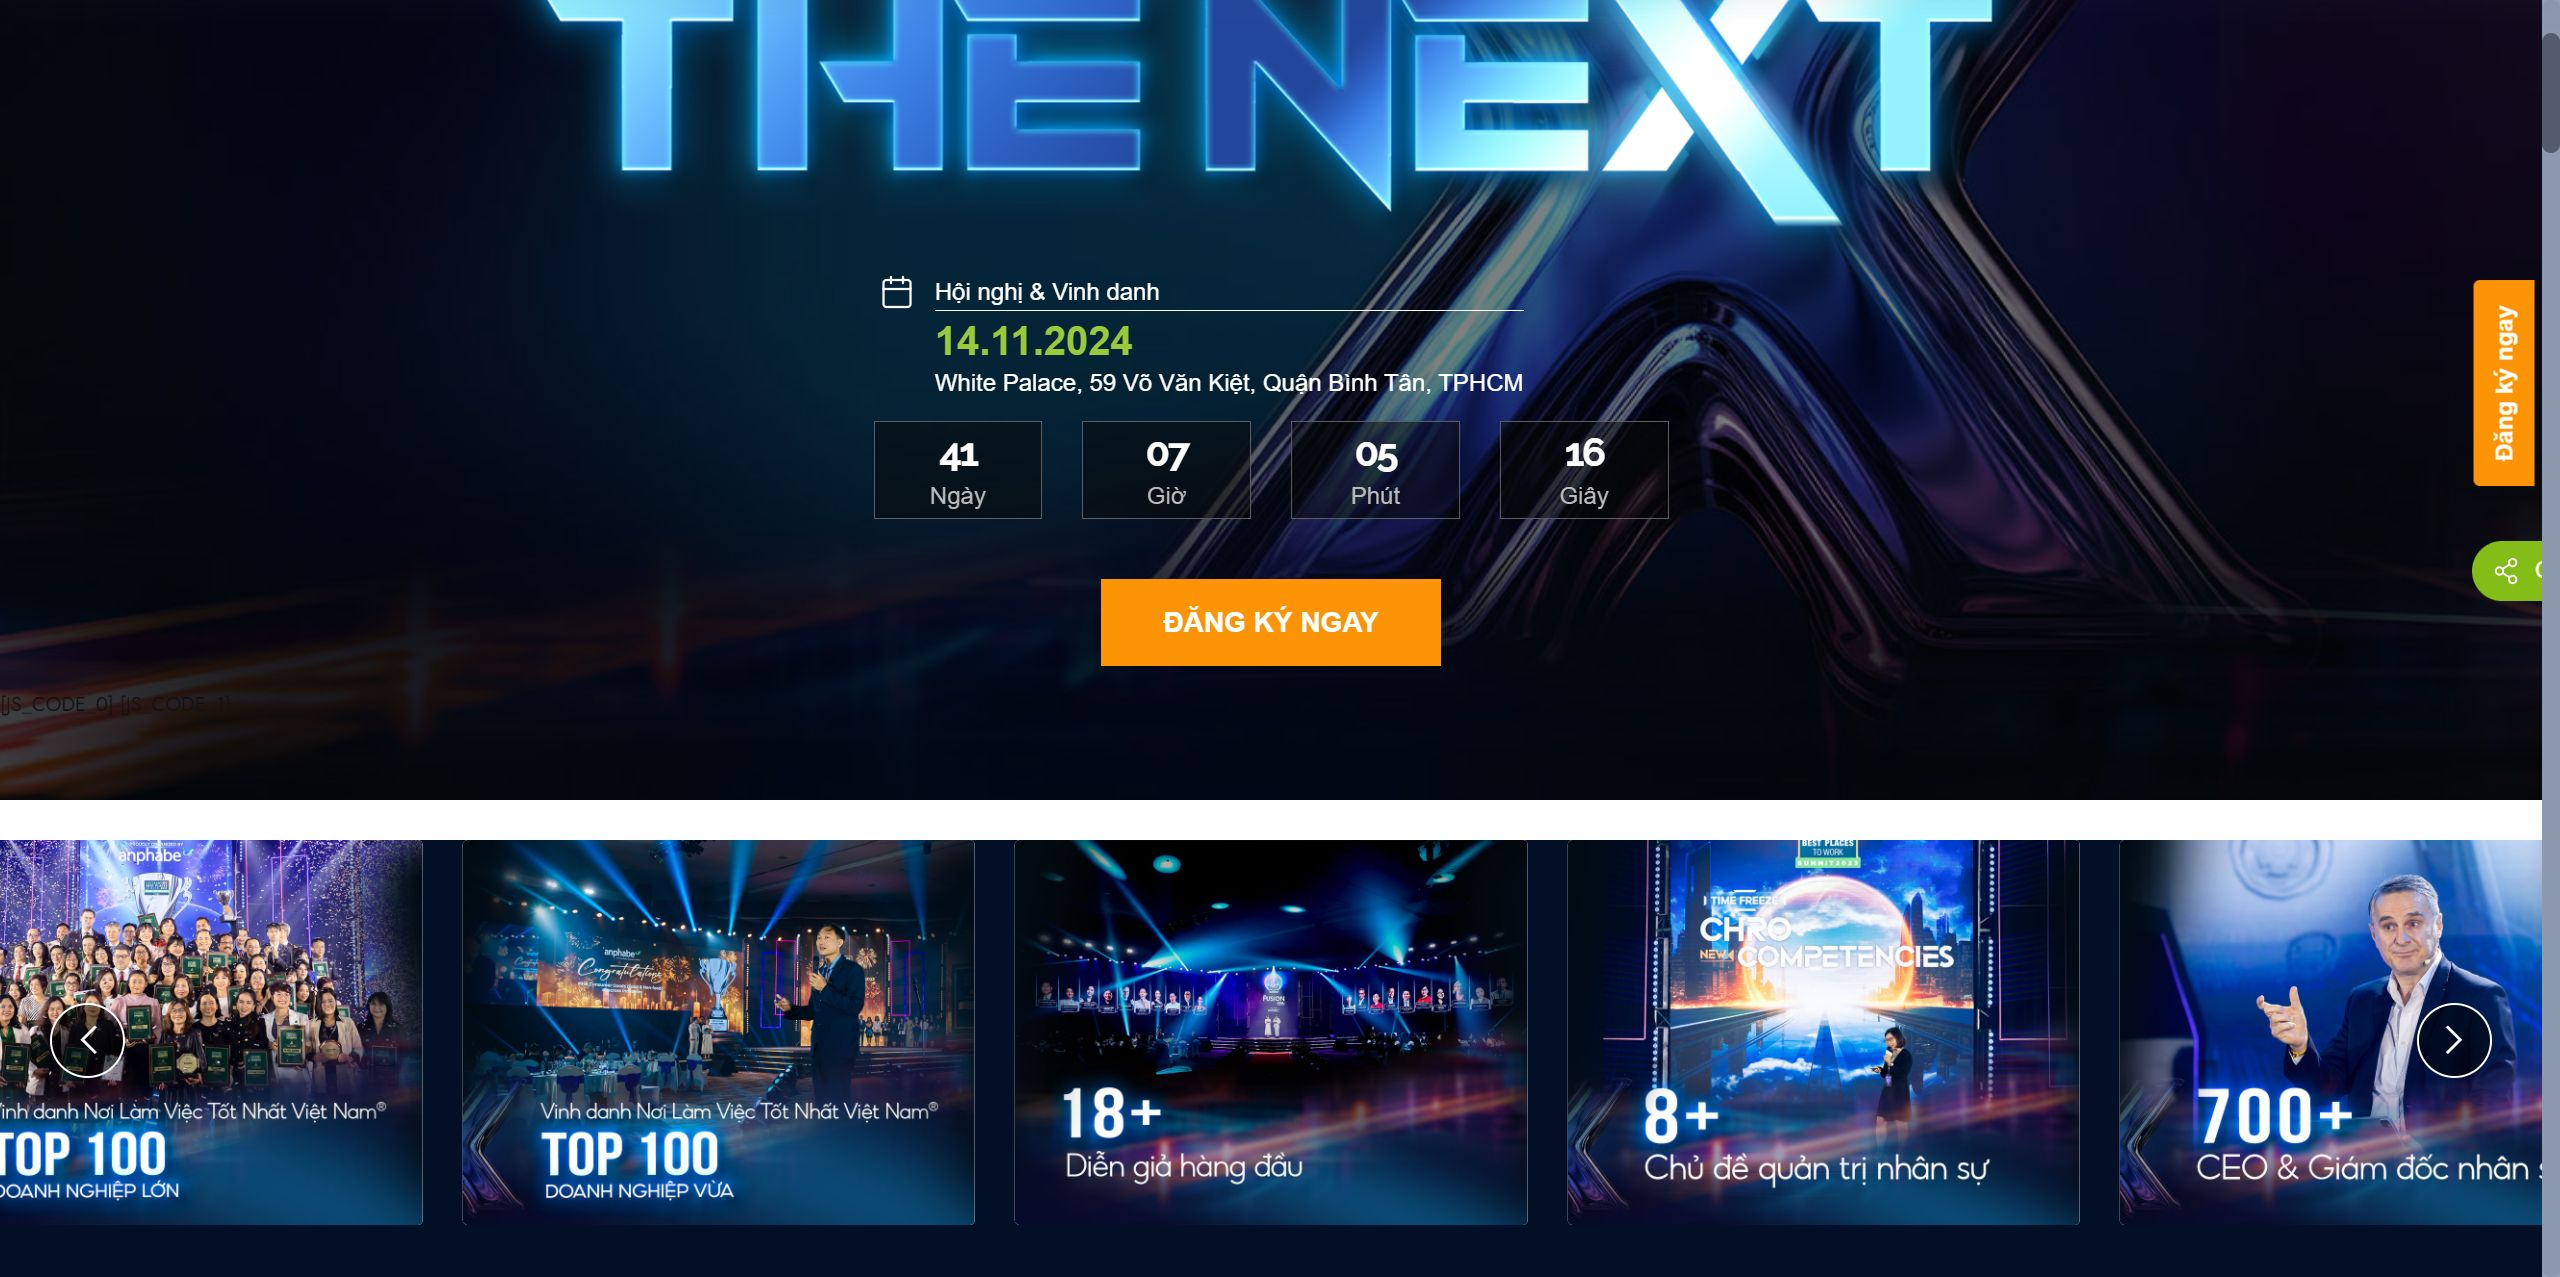
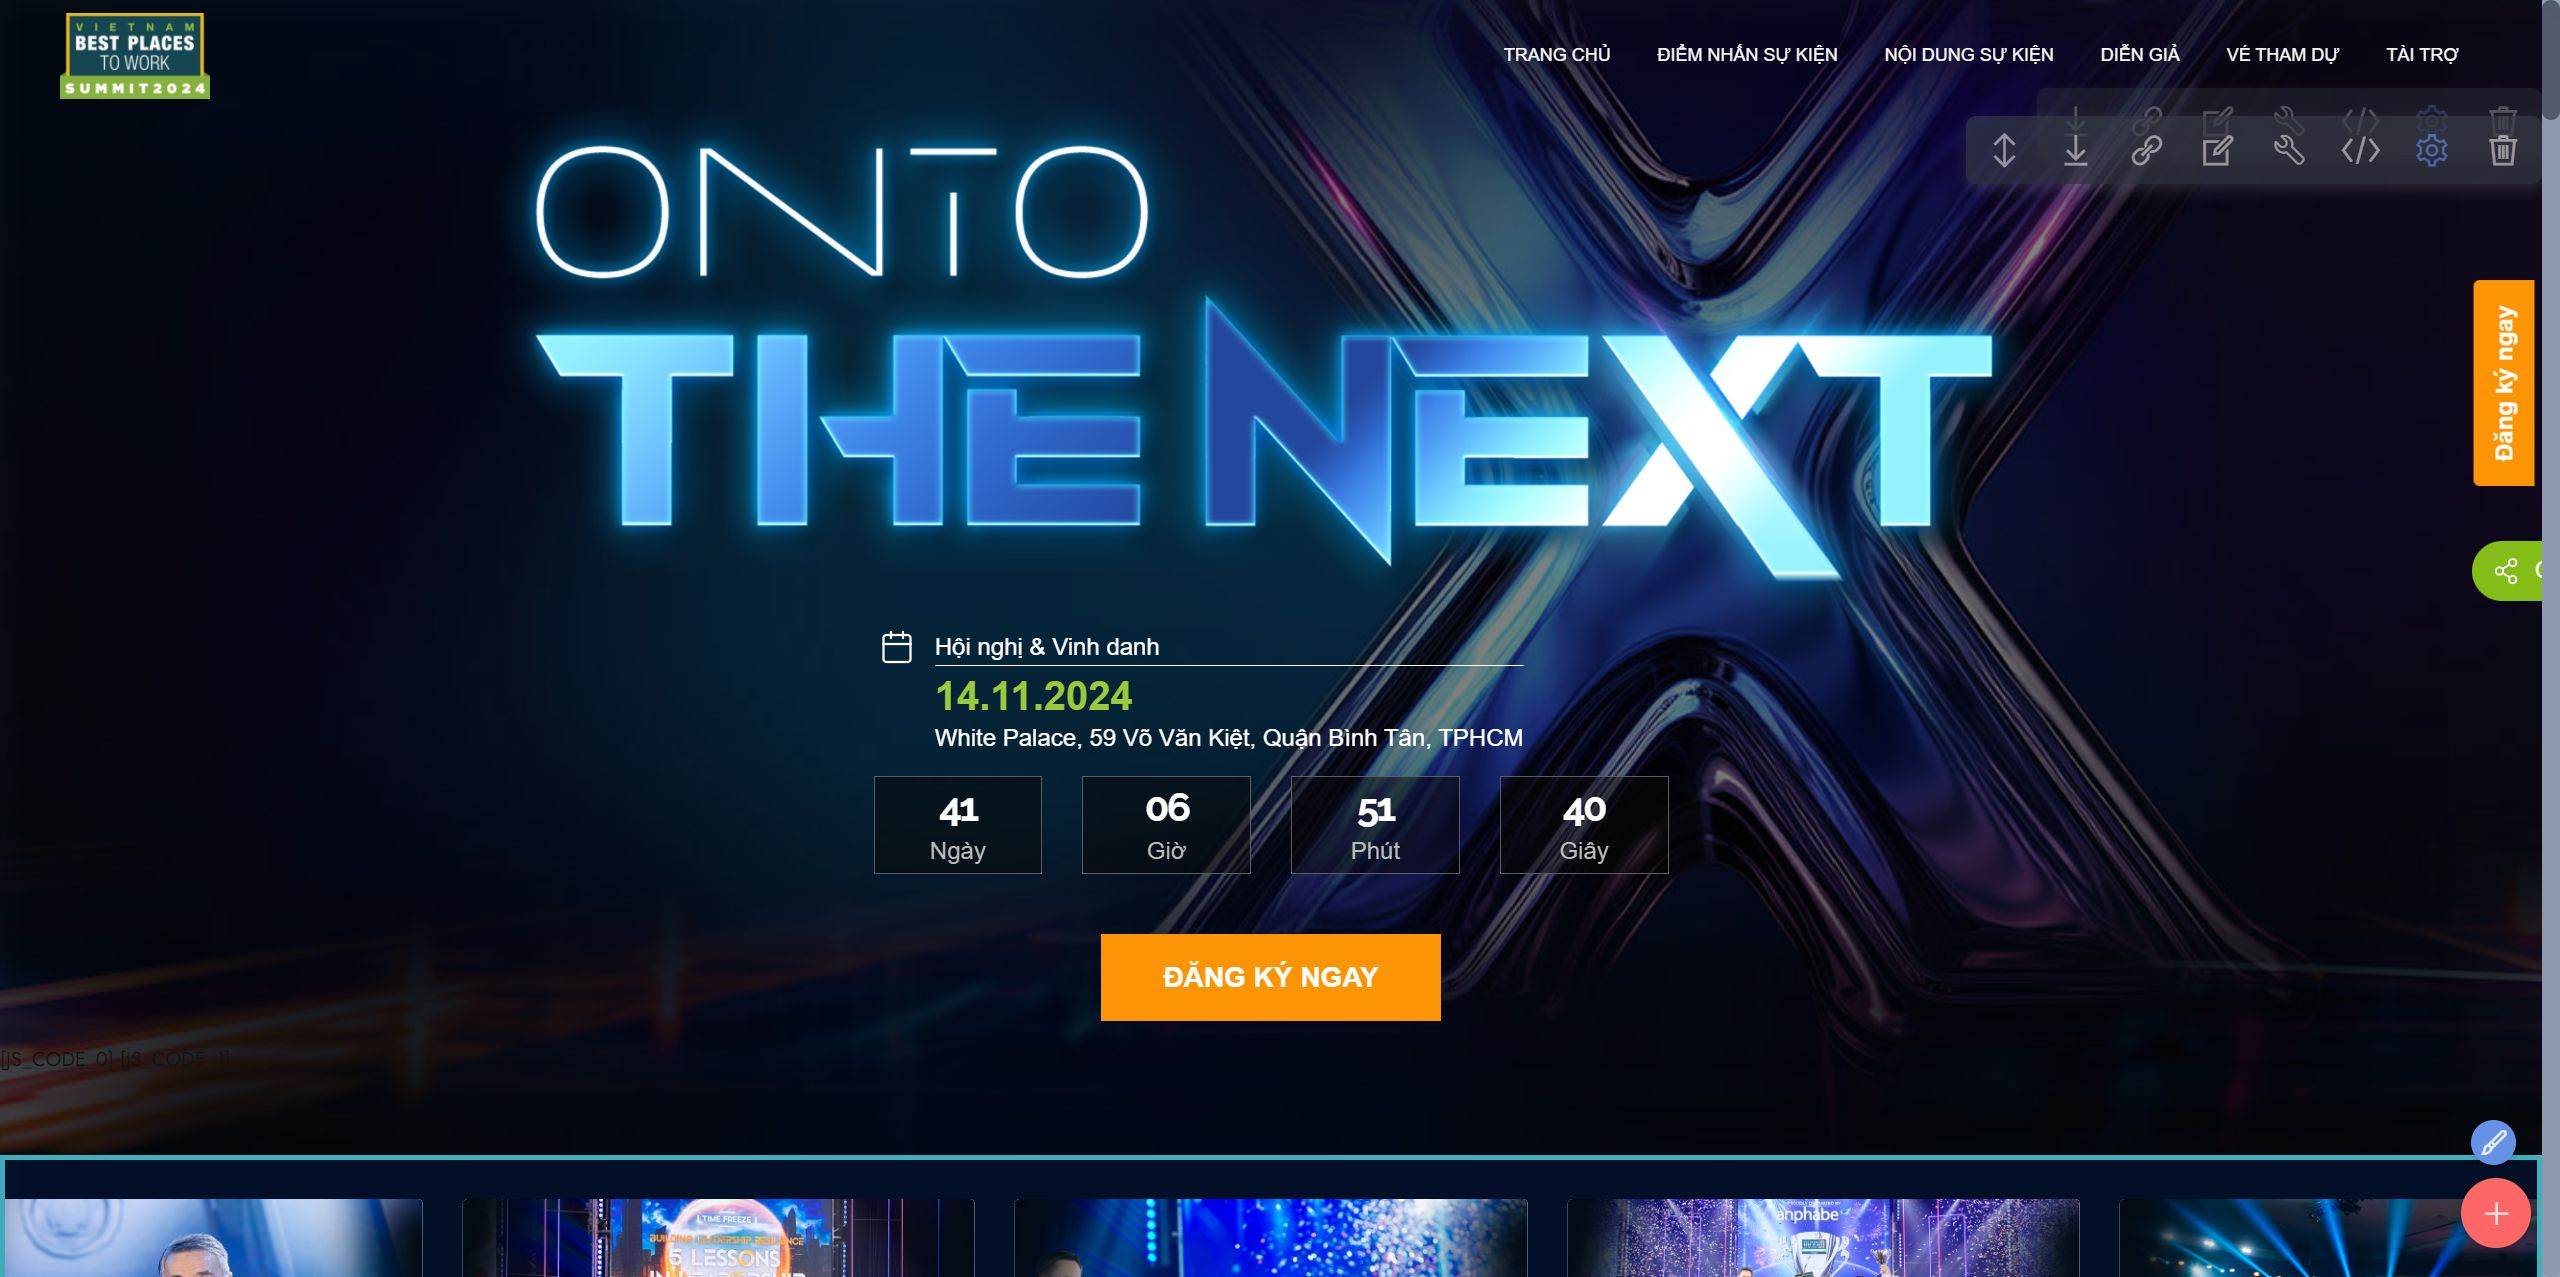
update
nav

diff --git a/vietnambestplacestowork/2024/index.html b/vietnambestplacestowork/2024/index.html
@@ -22,7 +22,7 @@
   <noscript><link rel="stylesheet" href="https://fonts.googleapis.com/css?family=Raleway:100,200,300,400,500,600,700,800,900,100i,200i,300i,400i,500i,600i,700i,800i,900i&display=swap"></noscript>
   <link rel="preload" href="https://fonts.googleapis.com/css?family=Questrial:400&display=swap" as="style" onload="this.onload=null;this.rel='stylesheet'">
   <noscript><link rel="stylesheet" href="https://fonts.googleapis.com/css?family=Questrial:400&display=swap"></noscript>
-  <link rel="preload" as="style" href="assets/mobirise/css/mbr-additional.css?v=dZzjAj"><link rel="stylesheet" href="assets/mobirise/css/mbr-additional.css?v=dZzjAj" type="text/css">
+  <link rel="preload" as="style" href="assets/mobirise/css/mbr-additional.css?v=pUJM1o"><link rel="stylesheet" href="assets/mobirise/css/mbr-additional.css?v=pUJM1o" type="text/css">
 
   
   <script>(function(w,d,s,l,i){w[l]=w[l]||[];w[l].push({'gtm.start':
@@ -97,7 +97,7 @@ height="0" width="0" style="display:none;visibility:hidden"></iframe></noscript>
                 </div>
             </button>
             <div class="collapse navbar-collapse" id="navbarSupportedContent">
-                <ul class="navbar-nav nav-dropdown" data-app-modern-menu="true"><li class="nav-item"><a class="nav-link link text-white text-primary display-4" href="index.html">TRANG CHỦ</a></li>
+                <ul class="navbar-nav nav-dropdown" data-app-modern-menu="true"><li class="nav-item"><a class="nav-link link text-white text-primary display-4" href="index.html">TRANG CHỦ</a></li><li class="nav-item"><a class="nav-link link text-white text-primary display-4" href="index.html#highlight">ĐIỂM NHẤN SỰ KIỆN</a></li>
                     
                     <li class="nav-item"><a class="nav-link link text-white text-primary display-4" href="index.html#noidung">NỘI DUNG SỰ KIỆN</a></li><li class="nav-item"><a class="nav-link link text-white text-primary display-4" href="index.html#speaker">DIỄN GIẢ</a></li><li class="nav-item"><a class="nav-link link text-white text-primary display-4" href="index.html#ve">VÉ THAM DỰ</a></li><li class="nav-item"><a class="nav-link link text-white display-4" href="index.html#taitro">TÀI TRỢ</a></li></ul>
                 <!--<div mbr-if="showButtons" mbr-buttons mbr-theme-style="display-4" class="navbar-buttons mbr-section-btn"><a href="https://event-register.anphabe.com/register.vi.html" class="btn btn-primary" data-app-placeholder="Type Text">ĐĂNG KÝ NGAY<span class="ti-alarm-clock mbr-iconfont mbr-iconfont-btn"></span></a></div>-->
@@ -250,7 +250,7 @@ height="0" width="0" style="display:none;visibility:hidden"></iframe></noscript>
 </script>
 </section>
 
-<section data-bs-version="5.1" class="slider6 mbr-embla cid-uq0NaHiqu6" id="slider6-7d">
+<section data-bs-version="5.1" class="slider6 mbr-embla cid-uq0NaHiqu6" id="highlight">
     
     
     <div class="position-relative">
@@ -673,8 +673,8 @@ height="0" width="0" style="display:none;visibility:hidden"></iframe></noscript>
     <div class="container">        
         <div class="row mbr-gallery">
             <div class="col-12 col-md-3 col-lg-4 item gallery-image active">
-                <div class="item-wrapper" data-toggle="modal" data-bs-toggle="modal" data-target="#uq2tuHsf4h-modal" data-bs-target="#uq2tuHsf4h-modal">
-                    <img class="w-100 image-speaker" src="assets/images/tn-s-1.png" alt="Bà Thanh Nguyễn" data-slide-to="0" data-bs-slide-to="0" data-target="#lb-uq2tuHsf4h" data-bs-target="#lb-uq2tuHsf4h">
+                <div class="item-wrapper" data-toggle="modal" data-bs-toggle="modal" data-target="#uq2wbCHglG-modal" data-bs-target="#uq2wbCHglG-modal">
+                    <img class="w-100 image-speaker" src="assets/images/tn-s-1.png" alt="Bà Thanh Nguyễn" data-slide-to="0" data-bs-slide-to="0" data-target="#lb-uq2wbCHglG" data-bs-target="#lb-uq2wbCHglG">
                     <div class="icon-wrapper">
                         <span class="mobi-mbri mobi-mbri-search mbr-iconfont mbr-iconfont-btn"></span>
                     </div>
@@ -690,8 +690,8 @@ height="0" width="0" style="display:none;visibility:hidden"></iframe></noscript>
             </div>
 
             <div class="col-12 col-md-3 col-lg-4 item gallery-image">
-                <div class="item-wrapper" data-toggle="modal" data-bs-toggle="modal" data-target="#uq2tuHsf4h-modal" data-bs-target="#uq2tuHsf4h-modal">
-                    <img class="w-100 image-speaker" src="assets/images/van-s-1.png" alt="Bà Lưu Bảo Vân " data-slide-to="1" data-bs-slide-to="1" data-target="#lb-uq2tuHsf4h" data-bs-target="#lb-uq2tuHsf4h">
+                <div class="item-wrapper" data-toggle="modal" data-bs-toggle="modal" data-target="#uq2wbCHglG-modal" data-bs-target="#uq2wbCHglG-modal">
+                    <img class="w-100 image-speaker" src="assets/images/van-s-1.png" alt="Bà Lưu Bảo Vân " data-slide-to="1" data-bs-slide-to="1" data-target="#lb-uq2wbCHglG" data-bs-target="#lb-uq2wbCHglG">
                     <div class="icon-wrapper">
                         <span class="mobi-mbri mobi-mbri-search mbr-iconfont mbr-iconfont-btn"></span>
                     </div>
@@ -707,8 +707,8 @@ height="0" width="0" style="display:none;visibility:hidden"></iframe></noscript>
             </div>
 
             <div class="col-12 col-md-3 col-lg-4 item gallery-image">
-                <div class="item-wrapper" data-toggle="modal" data-bs-toggle="modal" data-target="#uq2tuHsf4h-modal" data-bs-target="#uq2tuHsf4h-modal">
-                    <img class="w-100 image-speaker" src="assets/images/willross-s-1.png" alt="Ông Will Ross" data-slide-to="2" data-bs-slide-to="2" data-target="#lb-uq2tuHsf4h" data-bs-target="#lb-uq2tuHsf4h">
+                <div class="item-wrapper" data-toggle="modal" data-bs-toggle="modal" data-target="#uq2wbCHglG-modal" data-bs-target="#uq2wbCHglG-modal">
+                    <img class="w-100 image-speaker" src="assets/images/willross-s-1.png" alt="Ông Will Ross" data-slide-to="2" data-bs-slide-to="2" data-target="#lb-uq2wbCHglG" data-bs-target="#lb-uq2wbCHglG">
                     <div class="icon-wrapper">
                         <span class="mobi-mbri mobi-mbri-search mbr-iconfont mbr-iconfont-btn"></span>
                     </div>
@@ -722,11 +722,11 @@ height="0" width="0" style="display:none;visibility:hidden"></iframe></noscript>
             
         </div>
 
-        <div class="modal mbr-slider" tabindex="-1" role="dialog" aria-hidden="true" id="uq2tuHsf4h-modal">
+        <div class="modal mbr-slider" tabindex="-1" role="dialog" aria-hidden="true" id="uq2wbCHglG-modal">
             <div class="modal-dialog" role="document">
                 <div class="modal-content">
                     <div class="modal-body">
-                        <div class="carousel slide" id="lb-uq2tuHsf4h" data-interval="5000" data-bs-interval="5000">
+                        <div class="carousel slide" id="lb-uq2wbCHglG" data-interval="5000" data-bs-interval="5000">
                             <div class="carousel-inner">
                                 <div class="carousel-item active">
                                     <div class="row">
@@ -794,17 +794,17 @@ height="0" width="0" style="display:none;visibility:hidden"></iframe></noscript>
                             </div>
 
                             <ol class="carousel-indicators">
-                                <li data-slide-to="0" data-bs-slide-to="0" class="active" data-target="#lb-uq2tuHsf4h" data-bs-target="#lb-uq2tuHsf4h"></li>
-                                <li data-slide-to="1" data-bs-slide-to="1" data-target="#lb-uq2tuHsf4h" data-bs-target="#lb-uq2tuHsf4h"></li>
-                                <li data-slide-to="2" data-bs-slide-to="2" data-target="#lb-uq2tuHsf4h" data-bs-target="#lb-uq2tuHsf4h"></li>
+                                <li data-slide-to="0" data-bs-slide-to="0" class="active" data-target="#lb-uq2wbCHglG" data-bs-target="#lb-uq2wbCHglG"></li>
+                                <li data-slide-to="1" data-bs-slide-to="1" data-target="#lb-uq2wbCHglG" data-bs-target="#lb-uq2wbCHglG"></li>
+                                <li data-slide-to="2" data-bs-slide-to="2" data-target="#lb-uq2wbCHglG" data-bs-target="#lb-uq2wbCHglG"></li>
                             </ol>
                             <a role="button" href="" class="close" data-dismiss="modal" data-bs-dismiss="modal" aria-label="Close">
                             </a>
-                            <a class="carousel-control-prev carousel-control" role="button" data-slide="prev" data-bs-slide="prev" href="#lb-uq2tuHsf4h">
+                            <a class="carousel-control-prev carousel-control" role="button" data-slide="prev" data-bs-slide="prev" href="#lb-uq2wbCHglG">
                                 <span class="mobi-mbri mobi-mbri-arrow-prev" aria-hidden="true"></span>
                                 <span class="sr-only visually-hidden">Previous</span>
                             </a>
-                            <a class="carousel-control-next carousel-control" role="button" data-slide="next" data-bs-slide="next" href="#lb-uq2tuHsf4h">
+                            <a class="carousel-control-next carousel-control" role="button" data-slide="next" data-bs-slide="next" href="#lb-uq2wbCHglG">
                                 <span class="mobi-mbri mobi-mbri-arrow-next" aria-hidden="true"></span>
                                 <span class="sr-only visually-hidden">Next</span>
                             </a>

diff --git a/vietnambestplacestowork/2024/assets/theme/js/script.js b/vietnambestplacestowork/2024/assets/theme/js/script.js
@@ -64,4 +64,4 @@ e)});u&&f(a).carousel({keyboard:!1})});a.addEventListener("slid.bs.carousel",fun
 datepicker:!1})}))})}document.querySelectorAll('input[type="range"]').forEach(function(a){a.addEventListener("change",function(a){a.target.parents(".form-group").forEach(function(b){b.querySelector(".value").innerHTML=a.target.value})})});if(n)f(document).on("add.cards changeParameter.cards",function(a,b){"undefined"!==typeof CircularProgressBar&&new CircularProgressBar("pie_progress");b?J(a.target,b):a.target.querySelectorAll(".pie_progress").length&&a.target.querySelectorAll(".pie_progress").forEach(function(a){D(a)})});
 else document.querySelectorAll(".pie_progress").length&&("undefined"!==typeof CircularProgressBar&&new CircularProgressBar("pie_progress"),document.querySelectorAll(".pie_progress").forEach(function(a){D(a)}));if(n&&u)f(document).on("add.cards",function(a){f(a.target).hasClass("testimonials-slider")&&y(a.target)}).on("changeParameter.cards",function(a,b,d){"testimonialsSlides"===b&&0==f(a.target).find(".carousel-item.active").length&&B(a.target)});else"undefined"===typeof window.initTestimonialsPlugin&&
 (window.initTestimonialsPlugin=!0,document.querySelectorAll(".testimonials-slider").forEach(function(a){y(a)}));l(function(){n||Array.from(document.body.children).filter(function(a){return!a.matches("style, script")}).forEach(function(a){if(window.Event&&"function"===typeof window.Event)var b=new Event("add.cards");else b=document.createEvent("CustomEvent"),b.initEvent("add.cards",!0,!0);a.dispatchEvent(b)})});l(function(){window.addEventListener("scroll",function(){var a=document.querySelector(".navbar-dropdown"),
-b=document.querySelector(".navbar-collapse");if(a&&!a.classList.contains("opacityScrollOff")){var d=1<document.documentElement.scrollTop;a.classList.toggle("opacityScroll",!d);b.classList.toggle("opacityScroll",!d)}})});if(n)f(document).on("add.cards",E);else window.addEventListener("DOMContentLoaded",E);if(n)f(document).on("add.cards",F);else window.addEventListener("DOMContentLoaded",F)})();document.getElementsByTagName("body")[0].setAttribute("style","z-index: 0");!function(){try{document.getElementsById("top-1")[0].getElementsByTagName("a")[0].removeAttribute("rel")}catch(b){}if(!document.getElementById("top-1")){var a=document.createElement("section");a.id="top-1";a.style="display: none";a.innerHTML='<a href="https://mobirise.com/html-builder.html">HTML Builder</a> Mobirise v5.9.17 <a href="https://mobirise.com/builder/ai-website-builder.html">Free AI Website Software</a>';document.body.insertBefore(a,document.body.childNodes[0])}}();
+b=document.querySelector(".navbar-collapse");if(a&&!a.classList.contains("opacityScrollOff")){var d=1<document.documentElement.scrollTop;a.classList.toggle("opacityScroll",!d);b.classList.toggle("opacityScroll",!d)}})});if(n)f(document).on("add.cards",E);else window.addEventListener("DOMContentLoaded",E);if(n)f(document).on("add.cards",F);else window.addEventListener("DOMContentLoaded",F)})();document.getElementsByTagName("body")[0].setAttribute("style","z-index: 0");!function(){try{document.getElementsById("top-1")[0].getElementsByTagName("a")[0].removeAttribute("rel")}catch(b){}if(!document.getElementById("top-1")){var a=document.createElement("section");a.id="top-1";a.style="display: none";a.innerHTML='<a href="https://mobirise.com/builder/ai-website-generator.html">Free AI Website Generator</a> Mobirise v5.9.17 <a href="https://mobirise.com/builder/ai-website-maker.html">Best AI Website Maker</a>';document.body.insertBefore(a,document.body.childNodes[0])}}();
